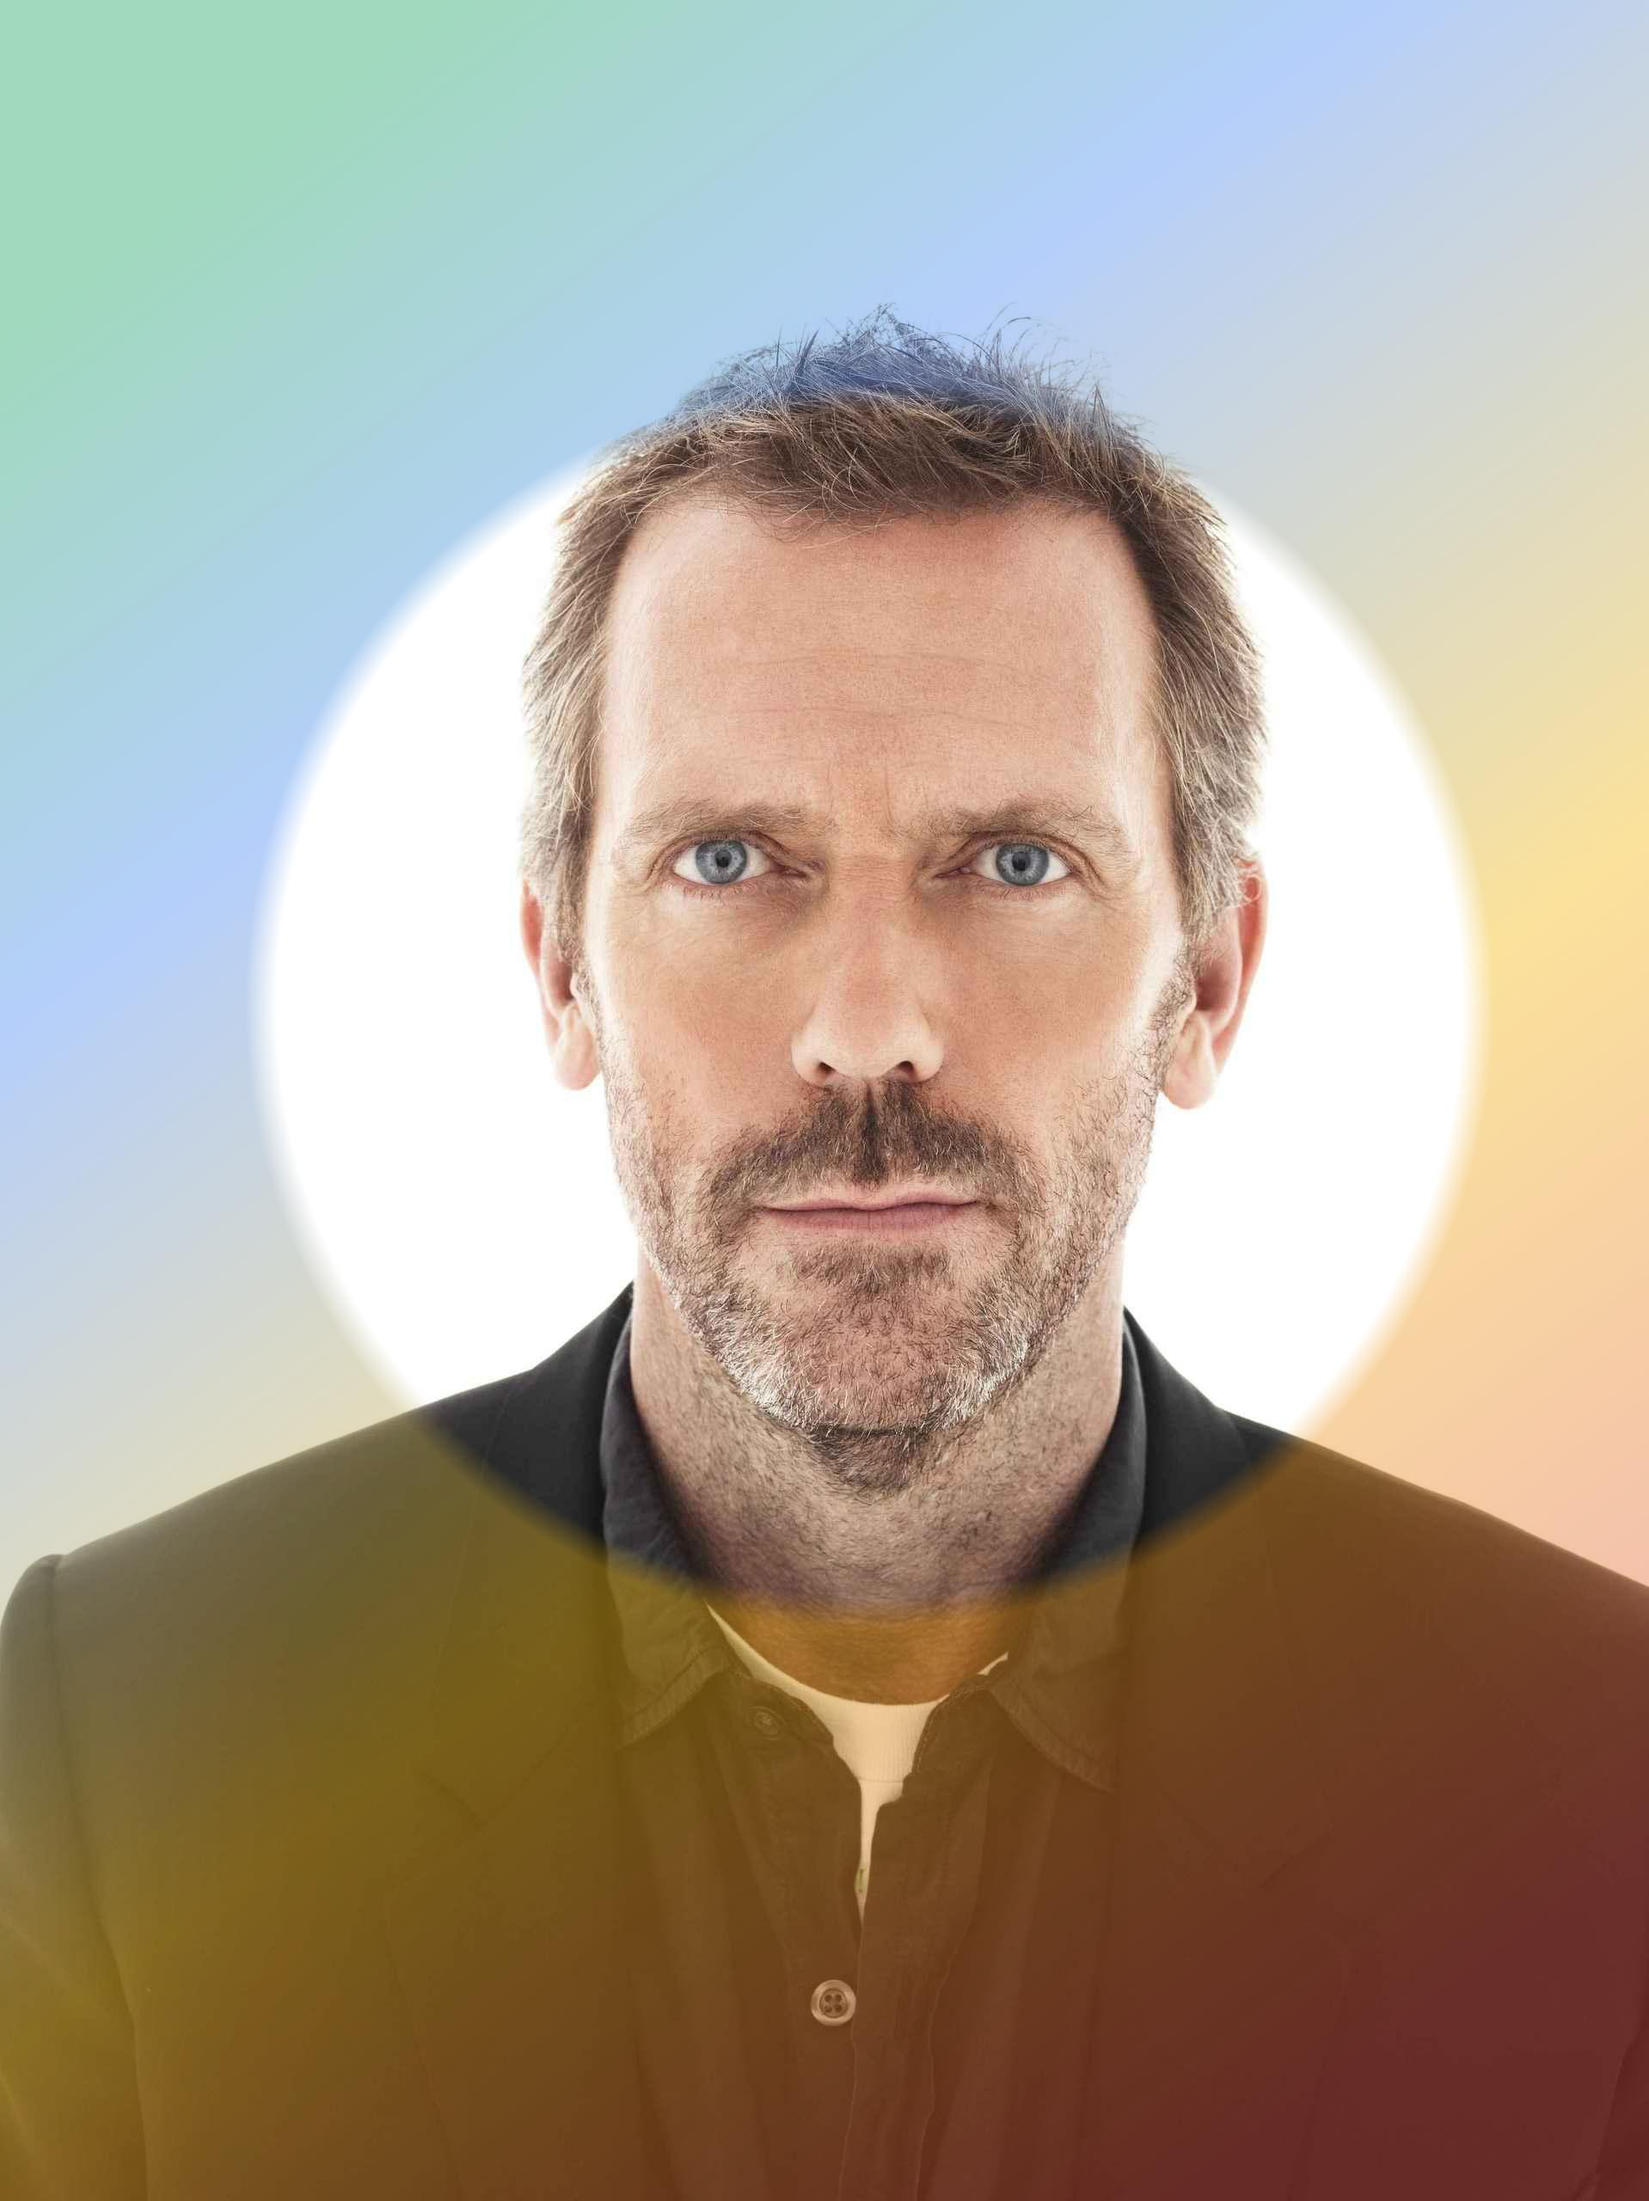
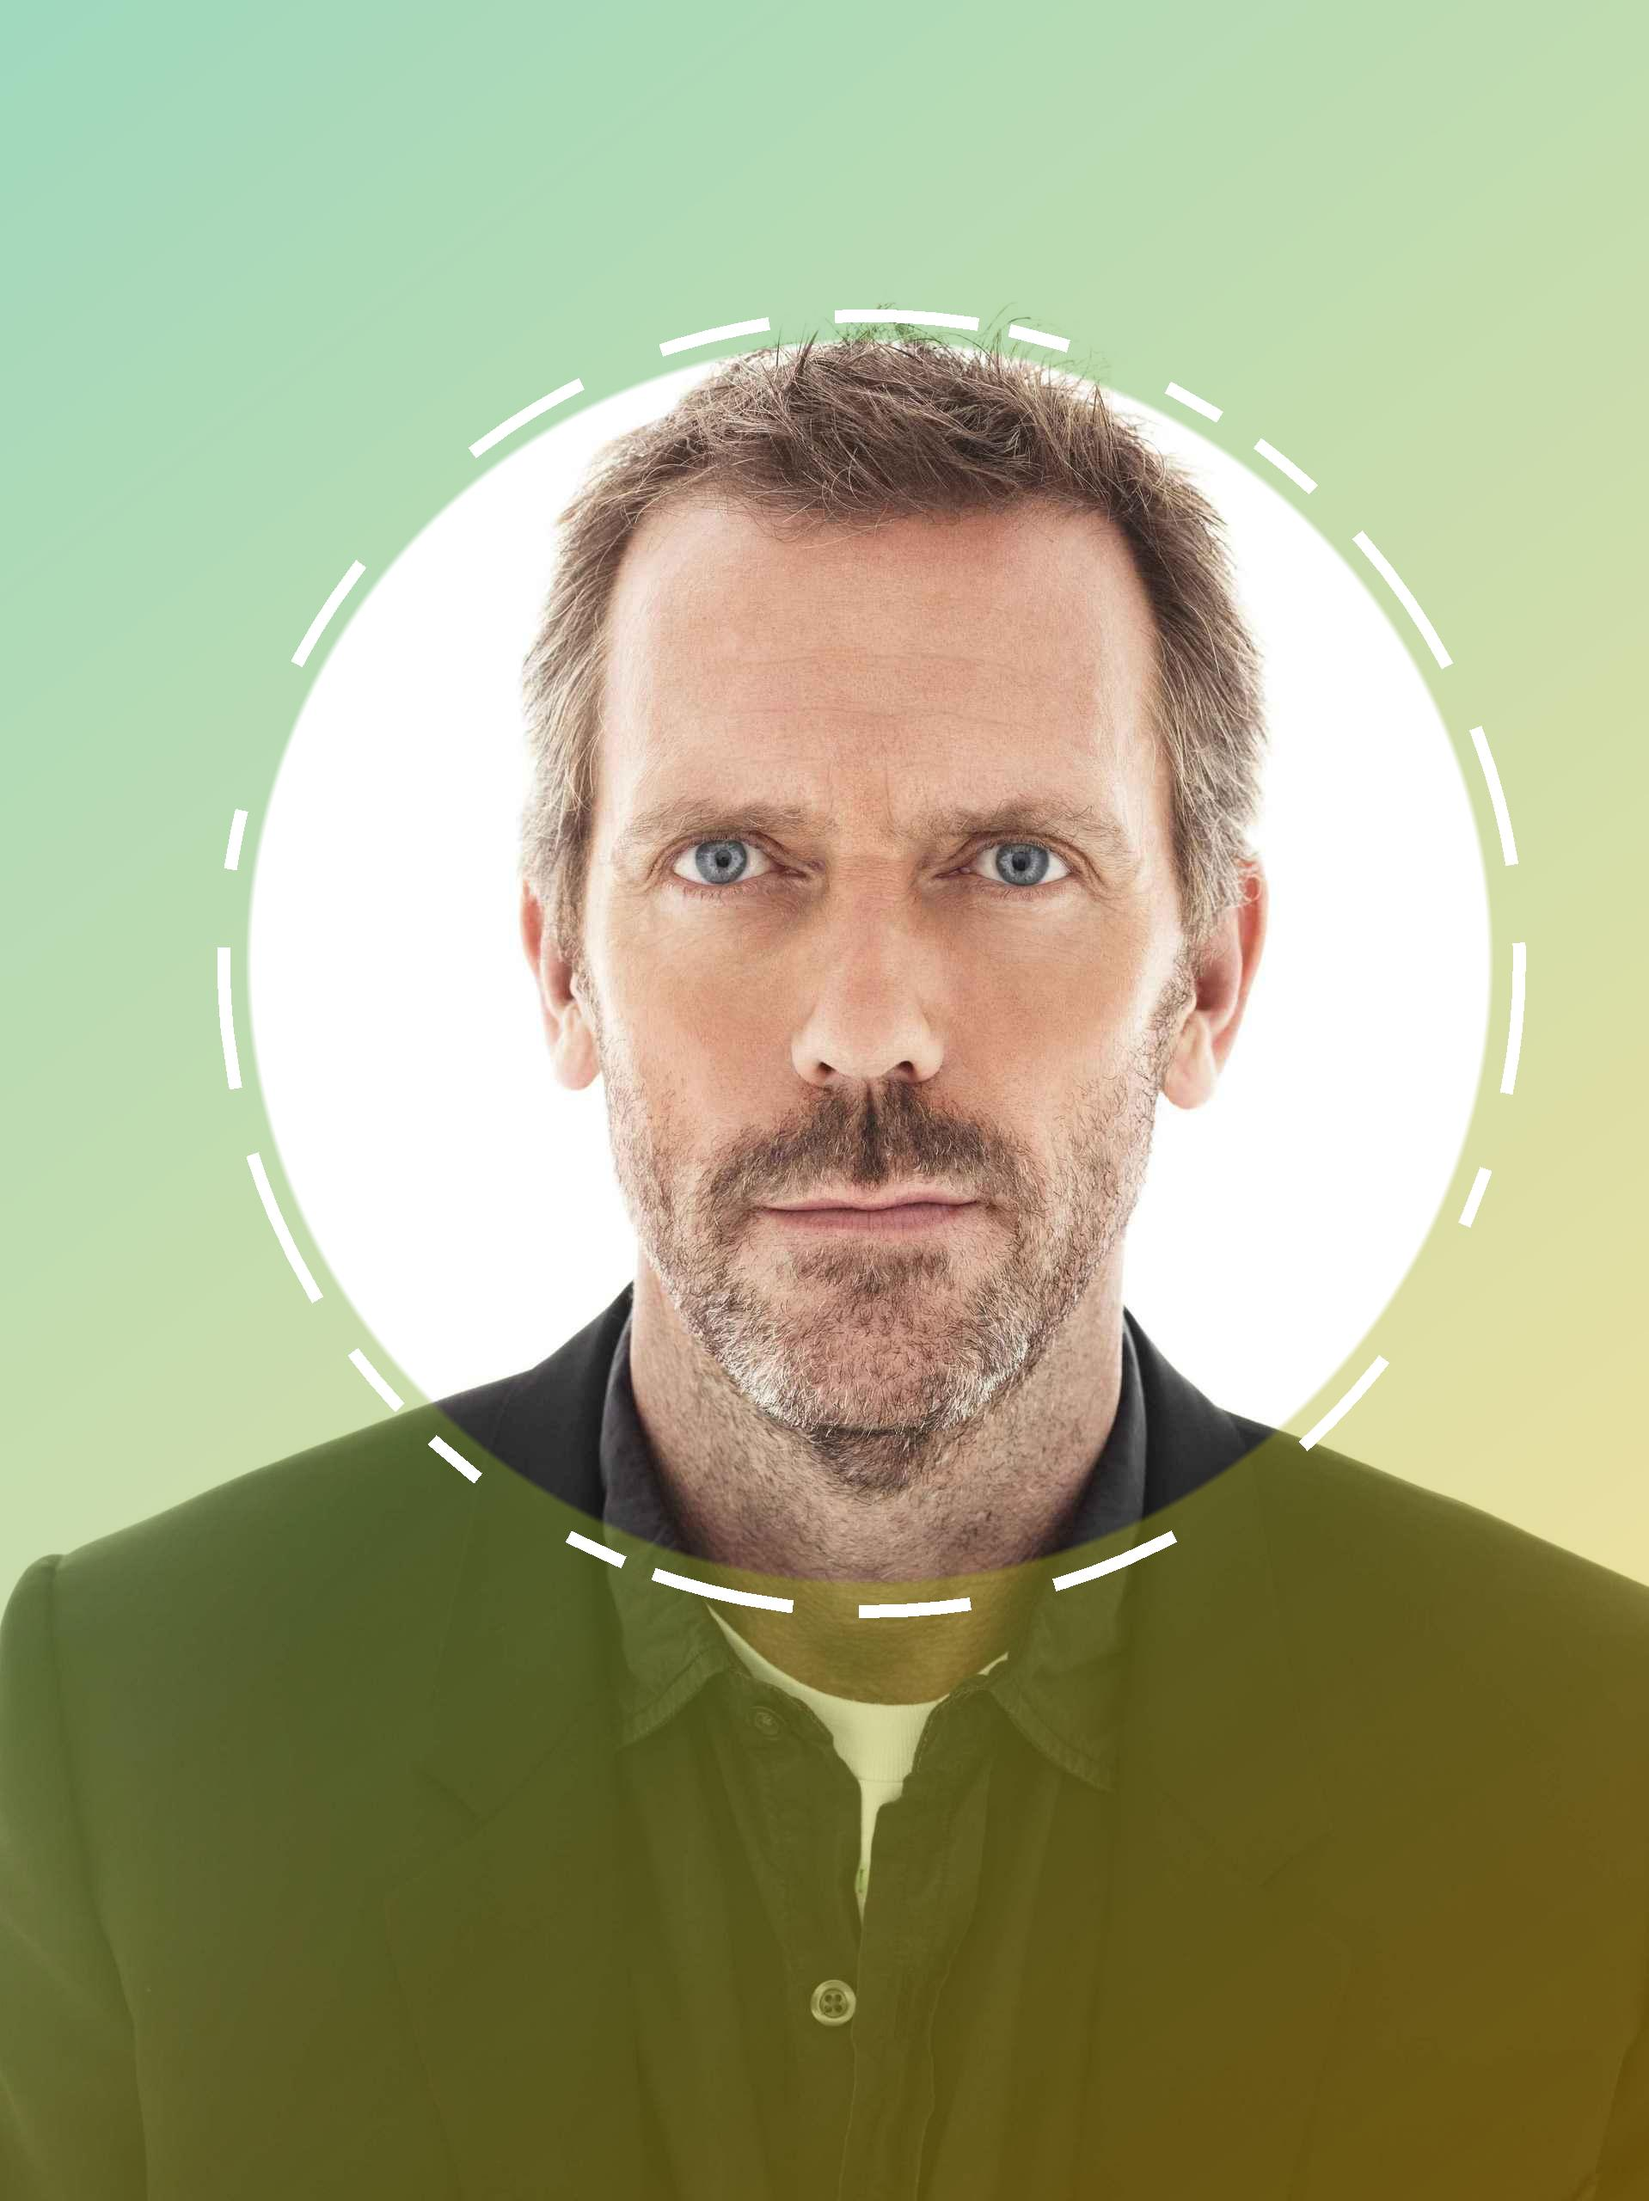
Random oval pattern around face, gradient improvements

diff --git a/src/main/java/pl/lukaszbyjos/emotionshooterserver/service/impl/ImageDrawServiceImpl.java b/src/main/java/pl/lukaszbyjos/emotionshooterserver/service/impl/ImageDrawServiceImpl.java
@@ -5,6 +5,7 @@ import com.google.api.services.vision.v1.model.Landmark;
 import com.google.api.services.vision.v1.model.Position;
 import com.google.api.services.vision.v1.model.Vertex;
 import lombok.extern.slf4j.Slf4j;
+import org.springframework.beans.factory.annotation.Value;
 import org.springframework.stereotype.Service;
 import pl.lukaszbyjos.emotionshooterserver.domain.VisionResponse;
 import pl.lukaszbyjos.emotionshooterserver.service.ImageDrawService;
@@ -20,6 +21,8 @@ import java.nio.file.Path;
 import java.util.Arrays;
 import java.util.Collections;
 import java.util.Random;
+import java.util.concurrent.ThreadLocalRandom;
+import java.util.stream.IntStream;
 
 
 @Service
@@ -36,6 +39,10 @@ public class ImageDrawServiceImpl implements ImageDrawService {
             new Color(219, 68, 55, 100),
             new Color(244, 180, 0, 100),
             new Color(15, 157, 88, 100)};
+
+    private java.util.List<Color> colorList = Arrays.asList(gColors);
+    @Value("${effects.max-colors}")
+    private int maxColorsInGradient;
 
     @Override
     public String createColorfullImage(VisionResponse visionResponse, Path filePath) {
@@ -91,31 +98,42 @@ public class ImageDrawServiceImpl implements ImageDrawService {
         return 0;
     }
 
-
-    private Color[] shuffleColors(Color[] colorsTable) {
-        java.util.List<Color> colorList = Arrays.asList(colorsTable);
+    private Color[] shuffleColorsRadnomColors() {
         Collections.shuffle(colorList);
-        return (Color[]) colorList.toArray();
+        return colorList.stream().limit(maxColorsInGradient).toArray(Color[]::new);
     }
 
+    private float[] getFractionsForColors() {
+        switch (maxColorsInGradient) {
+            case 1:
+                return new float[]{0f};
+            case 2:
+                return new float[]{0.0f, 1f};
+            case 3:
+                return new float[]{0.0f, 0.5f, 1f};
+            case 4:
+                return new float[]{0.0f, 0.25f, 0.75f, 1.0f};
+            default:
+                return new float[]{1f};
+        }
+    }
+
+
     private void createForegraundColors(Graphics2D backGraphic, int width, int height) {
-        float fractions[] = {0.1f, 0.3f, 0.6f, 0.9f};
+        float fractions[] = getFractionsForColors();
         LinearGradientPaint linearGradientPaint =
                 new LinearGradientPaint(0,
                         0,
                         width,
                         height,
                         fractions,
-                        shuffleColors(gColors),
+                        shuffleColorsRadnomColors(),
                         MultipleGradientPaint.CycleMethod.NO_CYCLE);
 
         backGraphic.setPaint(linearGradientPaint);
         backGraphic.fillRect(0, 0, foreground.getWidth(), foreground.getHeight());
     }
 
-    private Color chooseRandomColor() {
-        return gColors[random.nextInt(3)];
-    }
 
     /**
      * @param vertexList
@@ -161,7 +179,19 @@ public class ImageDrawServiceImpl implements ImageDrawService {
         Graphics2D g = imageWithGradient.createGraphics();
         g.drawImage(foreground, 0, 0, null);
 
-        float fractions[] = {0.0f, 0.95f, 1.0f};
+        Stroke s = new BasicStroke(15.0f,                      // Width
+                BasicStroke.CAP_SQUARE,    // End cap
+                BasicStroke.JOIN_MITER,    // Join style
+                10.0f,                     // Miter limit
+                generateStrokePattern(), // Dash pattern
+                5.0f);                     // Dash phase
+        g.setColor(new Color(255, 255, 255, 255));
+        g.setStroke(s);
+        int localRadius = radius + 25;
+        g.drawOval(point.x - localRadius, point.y - localRadius, localRadius * 2 + 5, localRadius * 2 + 5);
+
+
+        float fractions[] = {0.5f, 0.99f, 1.0f};
         Color colors[] = {
                 new Color(0, 0, 0, 255),
                 new Color(0, 0, 0, 255),
@@ -174,6 +204,20 @@ public class ImageDrawServiceImpl implements ImageDrawService {
 
         g.fillOval(point.x - radius, point.y - radius, radius * 2, radius * 2);
         g.dispose();
+    }
+
+    private float[] generateStrokePattern() {
+        final int maxSize = 20;
+        float[] result = new float[maxSize];
+        Counter.i = 0;
+        IntStream
+                .generate(() -> ThreadLocalRandom.current().nextInt(50, 200))
+                .limit(maxSize)
+                .mapToObj(value -> (float) value)
+                .forEach(floatVal -> result[Counter.i++] = floatVal);
+
+
+        return result;
     }
 
     private BufferedImage convertToARGB(BufferedImage image) {
@@ -203,6 +247,10 @@ public class ImageDrawServiceImpl implements ImageDrawService {
 
         writer.write(null, new IIOImage(img, null, metadata), param);
         writer.dispose();
+    }
+
+    static class Counter {
+        static int i = 0;
     }
 }
 

diff --git a/src/test/java/pl/lukaszbyjos/emotionshooterserver/service/impl/TestAppContext.java b/src/test/java/pl/lukaszbyjos/emotionshooterserver/service/impl/TestAppContext.java
@@ -3,11 +3,25 @@ package pl.lukaszbyjos.emotionshooterserver.service.impl;
 import org.springframework.context.annotation.Bean;
 import org.springframework.context.annotation.ComponentScan;
 import org.springframework.context.annotation.Configuration;
+import org.springframework.context.support.PropertySourcesPlaceholderConfigurer;
 import pl.lukaszbyjos.emotionshooterserver.StorageProperties;
+
+import java.util.Properties;
 
 @Configuration
 @ComponentScan("pl.lukaszbyjos.emotionshooterserver.service.*")
 public class TestAppContext {
+
+    @Bean
+    public static PropertySourcesPlaceholderConfigurer properties() throws Exception {
+        final PropertySourcesPlaceholderConfigurer pspc = new PropertySourcesPlaceholderConfigurer();
+        Properties properties = new Properties();
+
+        properties.setProperty("effects.max-colors", "2");
+
+        pspc.setProperties(properties);
+        return pspc;
+    }
 
     @Bean
     FileSystemStorageService fileSystemStorageService() {

diff --git a/src/main/java/pl/lukaszbyjos/emotionshooterserver/service/impl/VisionServiceStub.java b/src/main/java/pl/lukaszbyjos/emotionshooterserver/service/impl/VisionServiceStub.java
@@ -50,8 +50,8 @@ public class VisionServiceStub implements VisionService {
         eyes.setPosition(new Position().setX(1011.4305f).setY(1013.3219f).setZ(-73.071327f));
 
         Landmark nose = new Landmark();
-        eyes.setType("NOSE_TIP");
-        eyes.setPosition(new Position().setX(1008.9714f).setY(1222.562f).setZ(-170.00154f));
+        nose.setType("NOSE_TIP");
+        nose.setPosition(new Position().setX(1008.9714f).setY(1222.562f).setZ(-170.00154f));
 
         return Observable.just(VisionResponse.builder()
                 .emotionsList(Arrays.asList(anger, joy, sorrow, suprise))
